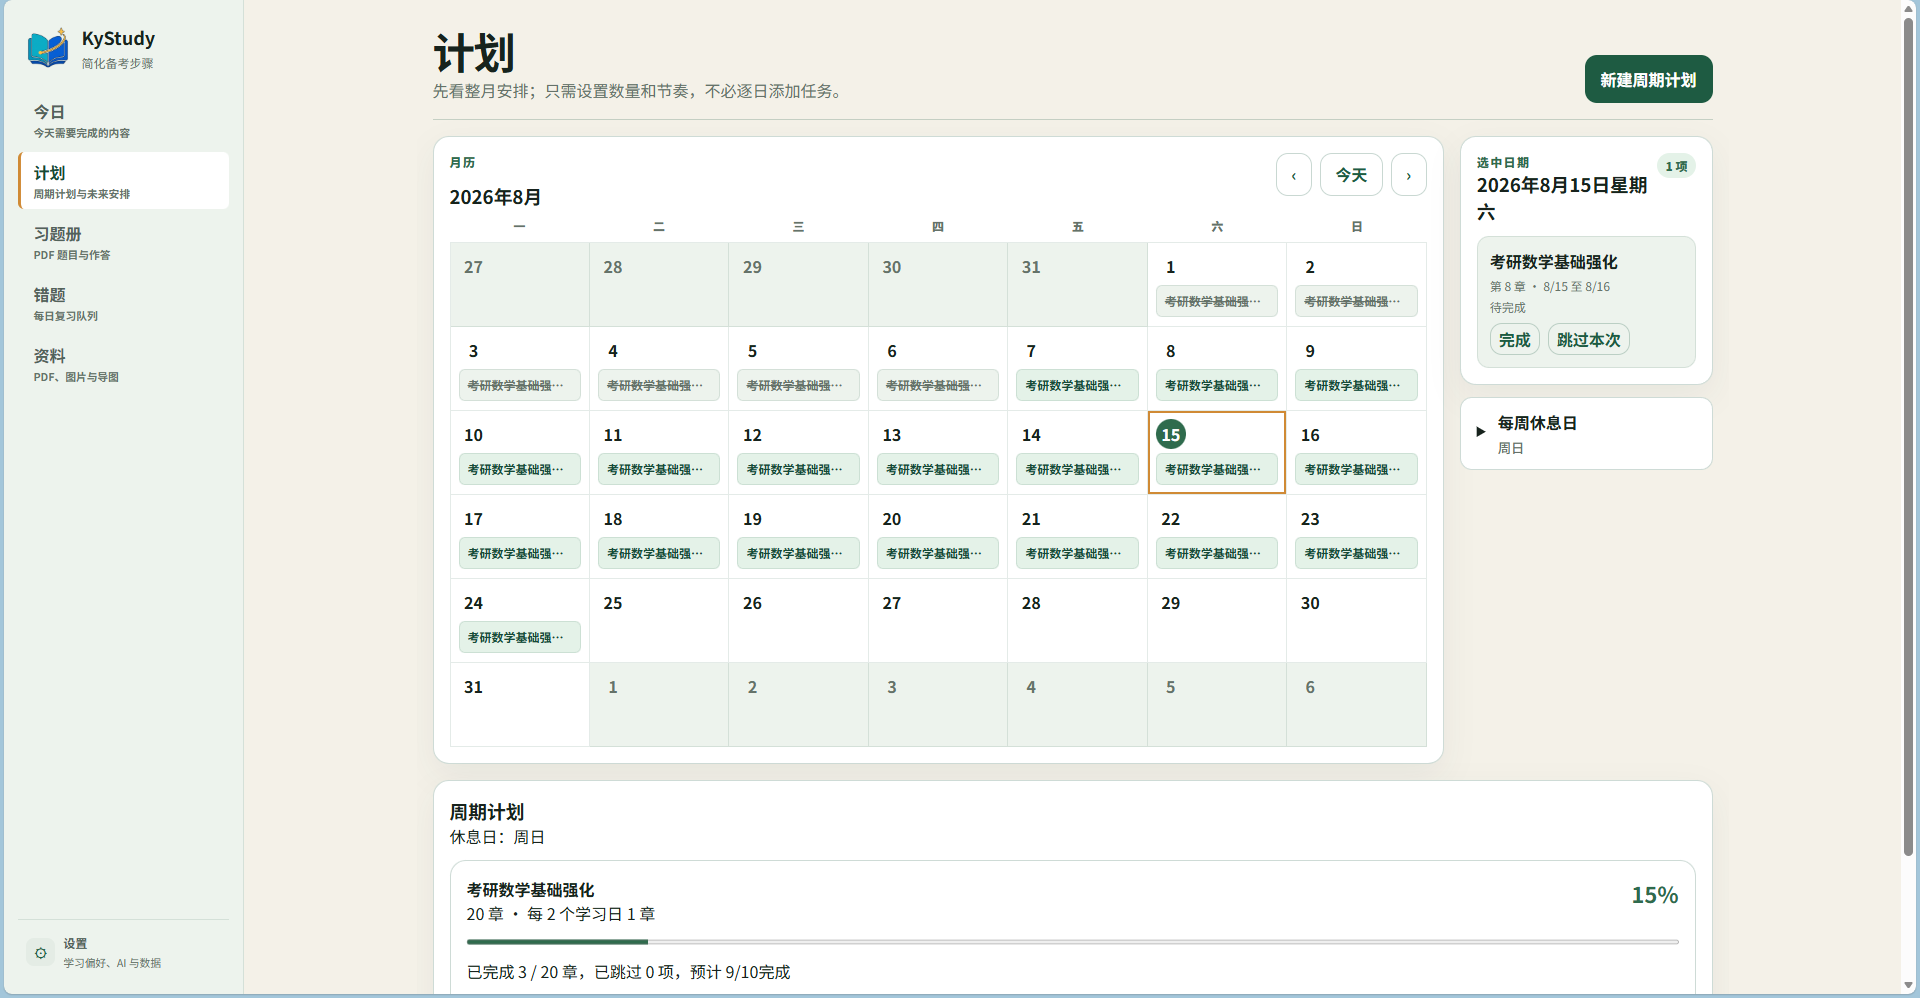
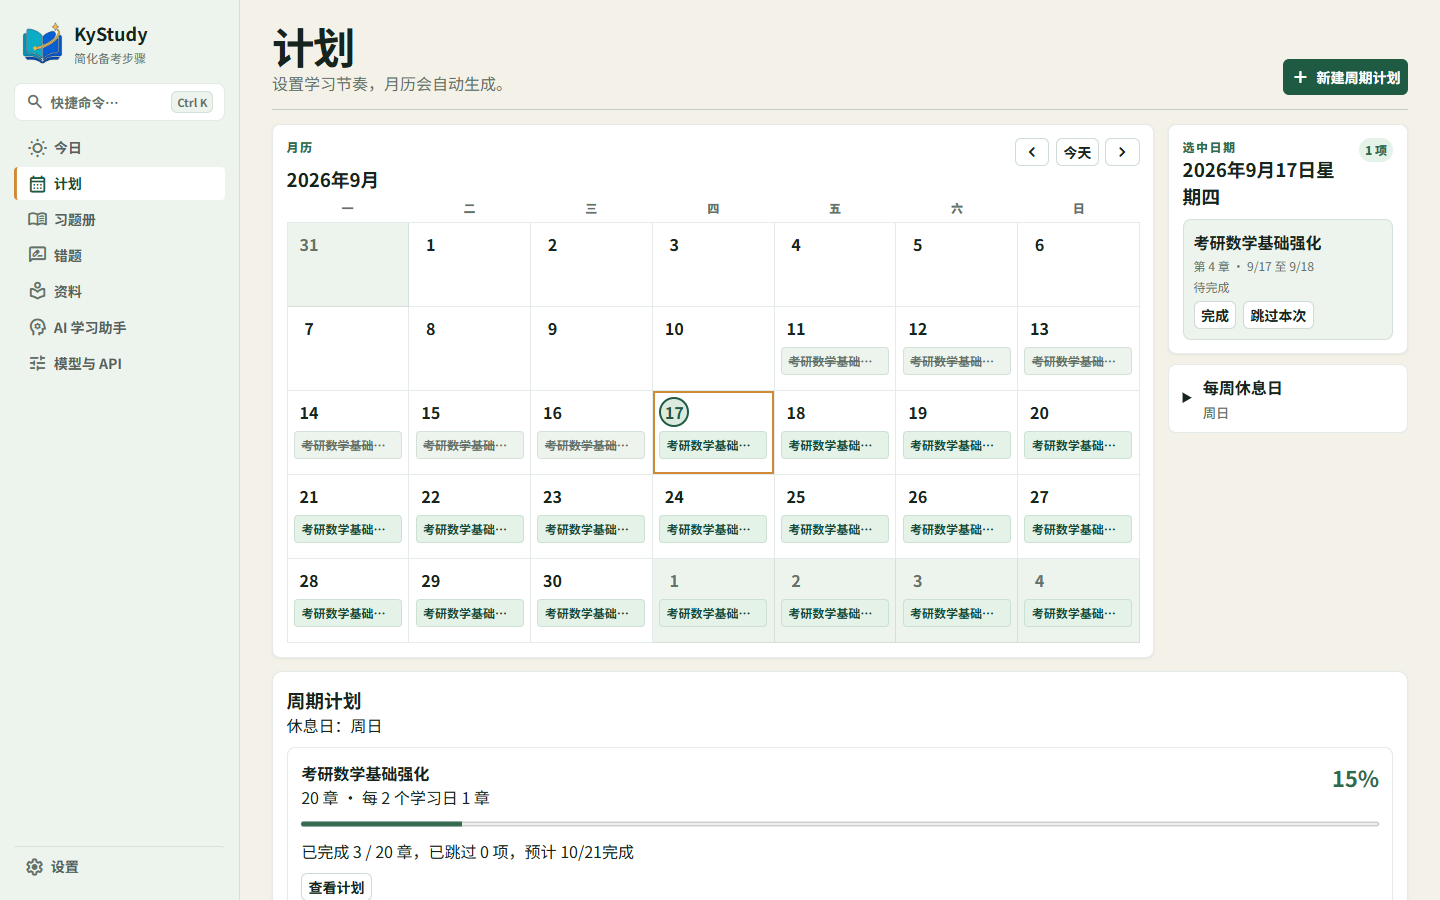
docs: update README demo screenshots and overview for v0.1.5

diff --git a/src/preview/browserPreviewBackend.ts b/src/preview/browserPreviewBackend.ts
@@ -561,47 +561,87 @@ const PREVIEW_QUESTION_BANK = {
   questions: PREVIEW_QUESTIONS,
 };
 
-const PREVIEW_CYCLE_PLAN = {
-  restWeekdays: [6],
-  plans: [
-    {
-      plan: {
-        id: "preview-cycle-plan",
-        name: "考研数学基础强化",
-        totalUnits: 20,
-        unitLabel: "章",
-        startDate: "2026-08-01",
-        deadline: "2026-12-24",
-        studyDaysPerUnit: 2,
-        scheduleMode: "rhythm",
-        calendarVisible: true,
-        createdAt: PREVIEW_TIME,
-        updatedAt: PREVIEW_TIME,
+function toDateKey(date: Date): string {
+  const year = date.getFullYear();
+  const month = String(date.getMonth() + 1).padStart(2, "0");
+  const day = String(date.getDate()).padStart(2, "0");
+  return `${year}-${month}-${day}`;
+}
+
+function buildPreviewCyclePlan() {
+  const now = new Date();
+  const todayTime = new Date(
+    now.getFullYear(),
+    now.getMonth(),
+    now.getDate(),
+  ).getTime();
+  const dayMs = 24 * 60 * 60 * 1000;
+  const baseOffsetDays = -6;
+
+  const items = Array.from({ length: 12 }, (_, index) => {
+    const startDay = new Date(
+      todayTime + (baseOffsetDays + index * 2) * dayMs,
+    );
+    const endDay = new Date(
+      todayTime + (baseOffsetDays + index * 2 + 1) * dayMs,
+    );
+    const plannedStartDate = toDateKey(startDay);
+    const plannedEndDate = toDateKey(endDay);
+    const isCompleted = index < 3;
+    return {
+      id: `preview-cycle-item-${index + 1}`,
+      planId: "preview-cycle-plan",
+      unitIndex: index + 1,
+      plannedStartDate,
+      plannedEndDate,
+      originalStartDate: plannedStartDate,
+      originalEndDate: plannedEndDate,
+      state: isCompleted ? ("completed" as const) : ("pending" as const),
+      completedAt: isCompleted ? PREVIEW_TIME : null,
+      skippedAt: null,
+      shiftCount: 0,
+      updatedAt: PREVIEW_TIME + index,
+    };
+  });
+
+  const year = now.getFullYear();
+  const startDate = toDateKey(new Date(todayTime + baseOffsetDays * dayMs));
+  const deadline = `${year}-12-24`;
+  const estimatedEndDate = toDateKey(
+    new Date(todayTime + (baseOffsetDays + 20 * 2) * dayMs),
+  );
+
+  return {
+    restWeekdays: [6],
+    plans: [
+      {
+        plan: {
+          id: "preview-cycle-plan",
+          name: "考研数学基础强化",
+          totalUnits: 20,
+          unitLabel: "章",
+          startDate,
+          deadline,
+          studyDaysPerUnit: 2,
+          scheduleMode: "rhythm",
+          calendarVisible: true,
+          createdAt: PREVIEW_TIME,
+          updatedAt: PREVIEW_TIME,
+        },
+        items,
+        completedCount: 3,
+        skippedCount: 0,
+        progressPercent: 15,
+        estimatedEndDate,
+        exceedsDeadline: false,
+        recommendedStudyDaysPerUnit: null,
+        recommendedTotalUnits: null,
       },
-      items: Array.from({ length: 12 }, (_, index) => ({
-        id: `preview-cycle-item-${index + 1}`,
-        planId: "preview-cycle-plan",
-        unitIndex: index + 1,
-        plannedStartDate: `2026-08-${String(index * 2 + 1).padStart(2, "0")}`,
-        plannedEndDate: `2026-08-${String(index * 2 + 2).padStart(2, "0")}`,
-        originalStartDate: `2026-08-${String(index * 2 + 1).padStart(2, "0")}`,
-        originalEndDate: `2026-08-${String(index * 2 + 2).padStart(2, "0")}`,
-        state: index < 3 ? "completed" : "pending",
-        completedAt: index < 3 ? PREVIEW_TIME : null,
-        skippedAt: null,
-        shiftCount: 0,
-        updatedAt: PREVIEW_TIME + index,
-      })),
-      completedCount: 3,
-      skippedCount: 0,
-      progressPercent: 15,
-      estimatedEndDate: "2026-09-10",
-      exceedsDeadline: false,
-      recommendedStudyDaysPerUnit: null,
-      recommendedTotalUnits: null,
-    },
-  ],
-};
+    ],
+  };
+}
+
+const PREVIEW_CYCLE_PLAN = buildPreviewCyclePlan();
 
 function previewKnowledgeMap() {
   const nodes = [
@@ -698,6 +738,43 @@ function previewStudyPlans() {
   return [];
 }
 
+function previewQuestionHistory(questionId: string) {
+  return {
+    questionId,
+    firstMistakeAt: PREVIEW_TIME - 3 * 24 * 3600 * 1000,
+    lastMistakeAt: PREVIEW_TIME - 24 * 3600 * 1000,
+    mistakeCount: 2,
+    consecutiveFailureCount: 1,
+    masteryLevel: "learning",
+    dueDate: "2026-09-18",
+    successfulStreak: 0,
+    attempts: [
+      {
+        id: `preview-attempt-${questionId}-1`,
+        questionId,
+        result: "incorrect",
+        attemptedAt: PREVIEW_TIME - 3 * 24 * 3600 * 1000,
+        createdAt: PREVIEW_TIME - 3 * 24 * 3600 * 1000,
+        durationSeconds: 120,
+        answerNote: "导数符号判断失误",
+        nextDueDate: "2026-09-15",
+        intervalDays: 1,
+      },
+      {
+        id: `preview-attempt-${questionId}-2`,
+        questionId,
+        result: "incorrect",
+        attemptedAt: PREVIEW_TIME - 24 * 3600 * 1000,
+        createdAt: PREVIEW_TIME - 24 * 3600 * 1000,
+        durationSeconds: 95,
+        answerNote: "计算积分时漏掉了负号",
+        nextDueDate: "2026-09-18",
+        intervalDays: 2,
+      },
+    ],
+  };
+}
+
 function previewReaderDescriptor(documentId: string) {
   const resource = PREVIEW_RESOURCES.find((item) => item.id === documentId);
   if (resource === undefined || resource.kind !== "pdf") {
@@ -755,6 +832,10 @@ export async function invokeBrowserPreview(
       return [];
     case "list_resources":
       return PREVIEW_RESOURCES;
+    case "list_resource_index_statuses":
+      return [];
+    case "find_latest_agent_run":
+      return null;
     case "list_subjects":
       return PREVIEW_SUBJECTS;
     case "get_workspace_status":
@@ -778,6 +859,8 @@ export async function invokeBrowserPreview(
       return String(args.questionId ?? "") === OCR_PREVIEW_QUESTION_ID
         ? [PREVIEW_OCR_RECOGNITION]
         : [];
+    case "get_question_history":
+      return previewQuestionHistory(String(args.questionId ?? ""));
     case "get_cycle_plan_dashboard":
       return PREVIEW_CYCLE_PLAN;
     case "get_review_scheme_dashboard":

diff --git a/src/features/review/ReviewPanel.tsx b/src/features/review/ReviewPanel.tsx
@@ -245,7 +245,12 @@ export function ReviewPanel({
   const { today, dashboard, subjects, workbooks } = state.value;
   const session = buildContinuousReviewSession(dashboard.schemes);
   const currentTab: ReviewTab =
-    activeTab ?? (dashboard.schemes.length === 0 ? "schemes" : "queue");
+    activeTab ??
+    (dashboard.schemes.length === 0
+      ? pendingMistakesCount > 0
+        ? "notebook"
+        : "schemes"
+      : "queue");
   const open = (d: SchemeDraft) => {
     setDraft(d);
     setInitial(d);

diff --git a/docs/screenshots/demo-workspace/README.md b/docs/screenshots/demo-workspace/README.md
@@ -1,18 +1,20 @@
 # 演示工作区截图
 
-这些截图来自仓库内置的只读浏览器演示工作区。README 只使用四个核心页面；其他具体操作保留在文字说明和本地截图暂存中，避免文档过于臃肿。
+这些截图来自仓库内置的只读浏览器演示工作区。展示 KyStudy 核心工作台页面；其他具体操作保留在文字说明和本地截图暂存中。
 
-| 文件                | 页面/场景 | README 用途                      |
-| ------------------- | --------- | -------------------------------- |
-| `today-demo.png`    | 今日页    | 展示“只处理今天”的任务入口       |
-| `planning-demo.png` | 计划页    | 展示周期安排和进度               |
-| `workbook-demo.png` | 习题册页  | 展示题库、习题册和索引           |
-| `library-demo.png`  | 资料页    | 展示 PDF、思维导图和资料管理入口 |
+| 文件                | 页面/场景     | README 用途                                      |
+| ------------------- | ------------- | ------------------------------------------------ |
+| `today-demo.png`    | 今日页        | 展示“只处理今天”的任务入口与快捷行动             |
+| `planning-demo.png` | 计划页        | 展示周期安排、阶段日历和总体进度                 |
+| `workbook-demo.png` | 习题册页      | 展示科目分类看板、题库索引与快速组卷/登记        |
+| `review-demo.png`   | 错题页        | 展示双栏沉浸错题本、考点归因标签与历史做题轨迹   |
+| `library-demo.png`  | 资料页        | 展示 PDF 教材、思维导图和资料管理入口            |
+| `ai-chat-demo.png`  | AI 学习助手页 | 展示数学公式渲染、资料引用研讨与模型调用预算控制 |
 
 ## 来源与边界
 
 - 截图来自合成演示数据，不含个人学习记录、真实文件路径或 API Key；
-- 图片保留原始窗口截图尺寸，README 通过页面级缩略布局展示；
+- 图片保留原始窗口截图尺寸（1440 × 900），README 通过页面级缩略布局展示；
 - 题库工具窗口截图移至本地 `artifacts/demo-workspace/reference-screenshots/`，不作为公开 README 图片；
 - 真实 PDF 阅读、题目区域、组卷、错题反馈和设置页截图等待本地工作区补充；
 - 如果最终不使用某张截图，删除对应文件即可，不影响应用代码。

diff --git a/README.md b/README.md
@@ -80,27 +80,37 @@ KyStudy 的目标不是记录更多数据，而是减少备考中重复、麻烦
 
 ## 界面概览
 
-README 只展示四个核心页面，具体的导入、组卷、错题反馈、PDF 阅读、思维导图和设置操作放在后面的使用流程中说明。
+README 展示 KyStudy 核心工作台页面，具体的导入、组卷、错题反馈、PDF 阅读、思维导图和设置操作放在后面的使用流程中说明。
 
 <p align="center">
   <img src="docs/screenshots/demo-workspace/today-demo.png" alt="今日页面" width="100%">
 </p>
-<p align="center"><strong>今日</strong>：集中处理当前任务</p>
+<p align="center"><strong>今日</strong>：集中处理当前任务与快捷行动入口</p>
 
 <p align="center">
   <img src="docs/screenshots/demo-workspace/planning-demo.png" alt="计划页面" width="100%">
 </p>
-<p align="center"><strong>计划</strong>：查看周期安排和进度</p>
+<p align="center"><strong>计划</strong>：查看周期安排、阶段日历与复习进度</p>
 
 <p align="center">
   <img src="docs/screenshots/demo-workspace/workbook-demo.png" alt="习题册页面" width="100%">
 </p>
-<p align="center"><strong>习题册</strong>：管理题目和索引</p>
+<p align="center"><strong>习题册</strong>：管理科目与习题册分类、题目索引、快速登记与组卷</p>
+
+<p align="center">
+  <img src="docs/screenshots/demo-workspace/review-demo.png" alt="错题页面" width="100%">
+</p>
+<p align="center"><strong>错题</strong>：双栏沉浸复盘工作台、考点归因标签与做题轨迹</p>
 
 <p align="center">
   <img src="docs/screenshots/demo-workspace/library-demo.png" alt="资料页面" width="100%">
 </p>
-<p align="center"><strong>资料</strong>：统一管理 PDF 与导图</p>
+<p align="center"><strong>资料</strong>：统一管理本地 PDF 教材与思维导图源文件</p>
+
+<p align="center">
+  <img src="docs/screenshots/demo-workspace/ai-chat-demo.png" alt="AI 学习助手页面" width="100%">
+</p>
+<p align="center"><strong>AI 学习助手</strong>：公式渲染、题目解题讨论与本地资料引用</p>
 
 ## 技术栈
 
